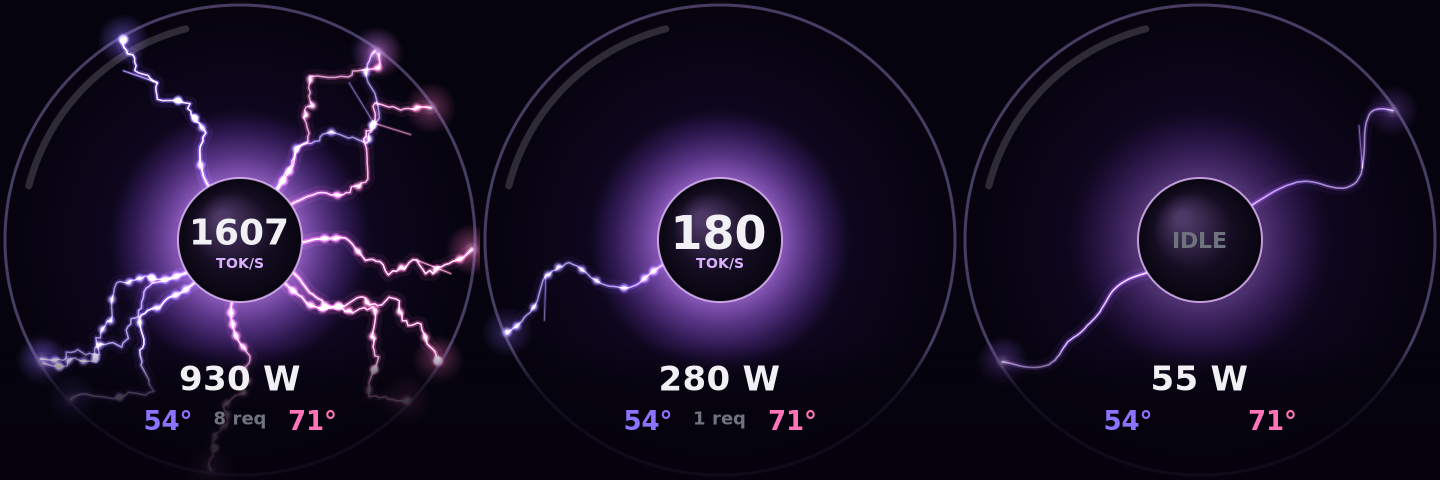
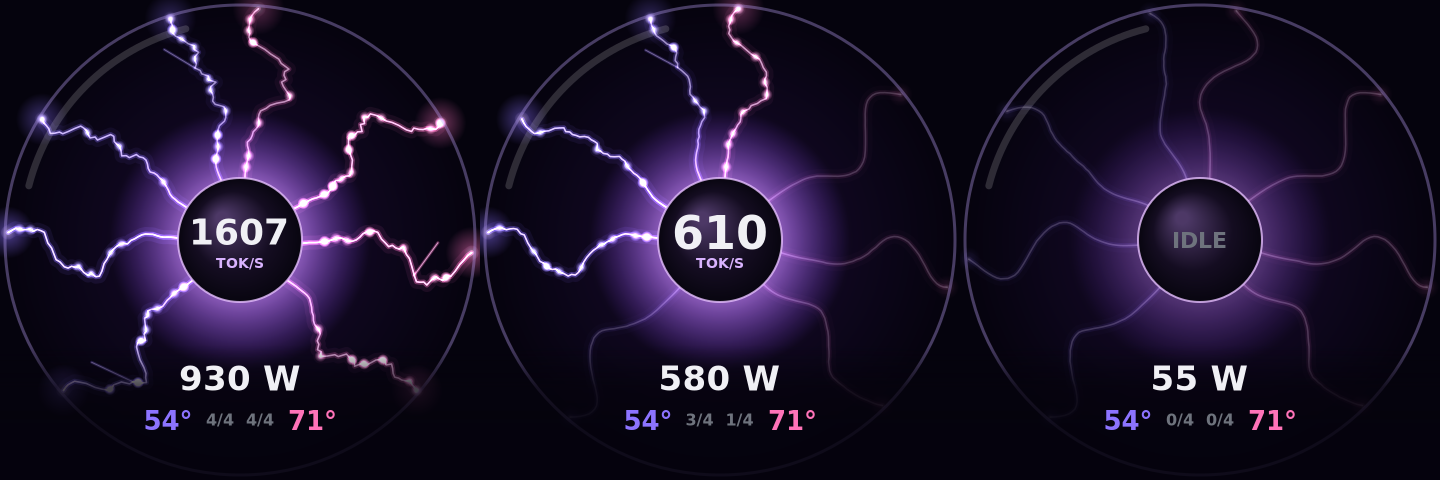
plasma: one filament per request slot on each GPU
Each server's --max-num-seqs slots get a fixed filament, fanned across
its half of the globe. Busy slots crackle brightly and carry token pulses;
free slots drift faint and dim, so the globe shows spare capacity too.
Running requests are now tracked per server, and the bottom shows
busy/total slots for each GPU.

Claude-Session: https://claude.ai/code/session_015nAWjnqqZVdKSvbNr6PTTx

diff --git a/c/plasma.c b/c/plasma.c
@@ -1,10 +1,10 @@
 /*
  * plasma: your LLM servers as a plasma globe on the iCUE LINK AIO pump LCD.
  *
- * Every running request is a crackling filament from the electrode to the glass
- * (violet for the ZOTAC's vLLM server, pink for the TUF's). Pulses race outward
- * along each server's filaments at its real token rate; the crackle gets more
- * violent with throughput. Idle, a couple of faint filaments drift.
+ * One filament per request slot (vLLM --max-num-seqs) on each server: violet on the
+ * left for the ZOTAC's, pink on the right for the TUF's. Busy slots crackle brightly
+ * and carry token pulses at the server's real rate; free slots drift faint and dim,
+ * so the globe shows both what's running and the spare capacity.
  * Run with --demo to simulate data, --bench to write preview PNGs.
  */
 #define _GNU_SOURCE
@@ -57,6 +57,7 @@ typedef struct {
     double tok_s;               /* all servers */
     double tok_port[2];         /* per server: [0] ZOTAC's vLLM, [1] TUF's vLLM */
     int    running;
+    int    running_port[2];     /* running requests per server */
 } stats;
 
 static volatile sig_atomic_t stop;
@@ -248,12 +249,14 @@ static void vllm_poll(stats *s, double t)
         double tokens, rate = 0;
         if (http_metrics(vllm_ports[i], buf, 1 << 20) <= 0) {
             have[i] = 0;
+            s->running_port[i] = 0;
             s->tok_port[i] *= 0.5;
             s->tok_s += s->tok_port[i];
             continue;
         }
         tokens   = metric_sum(buf, "vllm:generation_tokens_total");
-        running += (int)metric_sum(buf, "vllm:num_requests_running");
+        s->running_port[i] = (int)metric_sum(buf, "vllm:num_requests_running");
+        running += s->running_port[i];
         if (have[i] && tokens >= last_tokens[i] && t > last_t[i])
             rate = (tokens - last_tokens[i]) / (t - last_t[i]);
         s->tok_port[i] = 0.6 * s->tok_port[i] + 0.4 * rate;
@@ -284,24 +287,27 @@ static void demo_poll(stats *s, double t)
 
 #define ELECTRODE_R     62.0        /* center electrode radius (px) */
 #define GLASS_R         232.0       /* where filaments hit the glass */
-#define MAX_FIL         18
 #define FIL_PTS         48
 #define MAX_PULSES      400
 #define TOKENS_PER_PULSE 12.0
 
+#define SLOTS_PER_SERVER 4          /* vLLM --max-num-seqs on each server */
+#define N_SLOTS         (SLOTS_PER_SERVER * 2)
+#define FREE_GLOW       0.22        /* brightness of an idle slot */
+
 typedef struct {
-    double theta;           /* where it meets the glass */
-    double drift;           /* angular wander speed */
+    double theta, home;     /* current / resting angle where it meets the glass */
     double phase[3];        /* noise phases for its shape */
-    double life;            /* 0..1 fade in/out */
-    int    src;             /* 0 ZOTAC, 1 TUF, 2 idle */
-    int    alive, dying;
-    double px[FIL_PTS], py[FIL_PTS];   /* path this frame */
+    double life;            /* brightness, eased toward 1 when busy, FREE_GLOW when free */
+    double jit;             /* this filament's crackle, eased */
+    int    src;             /* 0 ZOTAC, 1 TUF */
+    int    busy;
+    double px[FIL_PTS], py[FIL_PTS];
 } filament;
 
 typedef struct { int fil; double u; int alive; } pulse;
 
-static filament fils[MAX_FIL];
+static filament fils[N_SLOTS];
 static pulse    pulses[MAX_PULSES];
 static double   pulse_acc[2];
 
@@ -309,72 +315,38 @@ static double frand(void) { return rand() / (double)RAND_MAX; }
 
 static rgb fil_color(int src)
 {
-    static const rgb VIOLET = { 0.55, 0.45, 1.0 };      /* ZOTAC: violet-blue */
-    static const rgb MAGENTA = { 1.0, 0.45, 0.72 };     /* TUF: pink-orange */
-    static const rgb IDLE = { 0.62, 0.40, 0.95 };
-    return src == 0 ? VIOLET : src == 1 ? MAGENTA : IDLE;
+    static const rgb VIOLET = { 0.55, 0.45, 1.0 };      /* ZOTAC */
+    static const rgb MAGENTA = { 1.0, 0.45, 0.72 };     /* TUF */
+    return src == 0 ? VIOLET : MAGENTA;
 }
 
-static int count_src(int src)
+/* Slots fan evenly across each server's half of the globe */
+static void init_slots(void)
 {
-    int n = 0;
-    for (int i = 0; i < MAX_FIL; i++)
-        n += fils[i].alive && !fils[i].dying && fils[i].src == src;
-    return n;
-}
-
-static void add_filament(int src)
-{
-    for (int i = 0; i < MAX_FIL; i++) {
+    for (int i = 0; i < N_SLOTS; i++) {
         filament *f = &fils[i];
-        if (f->alive)
-            continue;
-        /* ZOTAC's requests reach toward the left, TUF's toward the right; pick the emptiest spot */
-        double base = src == 0 ? M_PI : src == 1 ? 0 : 0;
-        double spread = src == 2 ? 2 * M_PI : 2.6;
-        double best = base, best_gap = -1;
-        for (int k = 0; k < 16; k++) {
-            double cand = base + (frand() - 0.5) * spread, gap = 10;
-            for (int j = 0; j < MAX_FIL; j++) {
-                if (!fils[j].alive || j == i)
-                    continue;
-                double d = fabs(remainder(cand - fils[j].theta, 2 * M_PI));
-                gap = fmin(gap, d);
-            }
-            if (gap > best_gap) {
-                best_gap = gap;
-                best = cand;
-            }
-        }
-        f->theta = best;
-        f->drift = (frand() - 0.5) * 0.5;
-        for (int k = 0; k < 3; k++)
-            f->phase[k] = frand() * 100;
-        f->life = 0;
+        int src = i / SLOTS_PER_SERVER, k = i % SLOTS_PER_SERVER;
+        double spread = 2.2, off = (k - (SLOTS_PER_SERVER - 1) / 2.0) * spread / (SLOTS_PER_SERVER - 1);
+        const double lift = 0.28;                           /* keep the lowest slots clear of the stats */
         f->src = src;
-        f->alive = 1;
-        f->dying = 0;
-        return;
+        f->home = f->theta = (src == 0 ? M_PI - off + lift : off - lift);   /* slot 1 at the top on both sides */
+        for (int j = 0; j < 3; j++)
+            f->phase[j] = frand() * 100;
+        f->life = FREE_GLOW;
+        f->jit = 0.2;
     }
-}
-
-static void drop_filament(int src)
-{
-    for (int i = MAX_FIL - 1; i >= 0; i--)
-        if (fils[i].alive && !fils[i].dying && fils[i].src == src) {
-            fils[i].dying = 1;
-            return;
-        }
 }
 
 static void spawn_pulse(int src)
 {
-    int cand[MAX_FIL], n = 0;
-    for (int i = 0; i < MAX_FIL; i++)
-        if (fils[i].alive && !fils[i].dying && fils[i].src == src)
+    int cand[N_SLOTS], n = 0;
+    for (int i = 0; i < N_SLOTS; i++)
+        if (fils[i].src == src && fils[i].busy)
             cand[n++] = i;
     if (!n)
-        return;
+        for (int i = 0; i < N_SLOTS; i++)
+            if (fils[i].src == src)
+                cand[n++] = i;
     for (int i = 0; i < MAX_PULSES; i++)
         if (!pulses[i].alive) {
             pulses[i] = (pulse){ cand[rand() % n], 0, 1 };
@@ -382,63 +354,35 @@ static void spawn_pulse(int src)
         }
 }
 
-/* Target filament count per server: one per running request, a few extra for heavy throughput */
-static int target_fils(double tok_port, int running_share)
-{
-    if (tok_port < 1)
-        return 0;
-    int n = running_share + (int)(tok_port / 400);
-    return n < 1 ? 1 : n > 8 ? 8 : n;
-}
-
 static void simulate(const stats *s, double dt, double t, double *jitter)
 {
-    int idle = s->tok_s < 1 && s->running == 0;
-    double share0 = s->tok_s > 0 ? s->tok_port[0] / s->tok_s : 0.5;
-    int run0 = (int)round(s->running * share0), run1 = s->running - run0;
-    int want[3] = {
-        idle ? 0 : target_fils(s->tok_port[0], run0),
-        idle ? 0 : target_fils(s->tok_port[1], run1),
-        idle ? 2 : 0,
-    };
-    for (int src = 0; src < 3; src++) {
-        int have = count_src(src);
-        if (have < want[src])
-            add_filament(src);
-        else if (have > want[src])
-            drop_filament(src);
-    }
+    /* How violently busy filaments crackle */
+    *jitter = 0.6 + fmin(s->tok_s, 2400) / 1200;
 
-    /* How violently the filaments crackle */
-    *jitter = idle ? 0.25 : 0.6 + fmin(s->tok_s, 2400) / 1200;
-
-    for (int i = 0; i < MAX_FIL; i++) {
+    for (int i = 0; i < N_SLOTS; i++) {
         filament *f = &fils[i];
-        if (!f->alive)
-            continue;
-        f->life = f->dying ? f->life - dt * 2.5 : fmin(1, f->life + dt * 3);
-        if (f->life <= 0) {
-            f->alive = 0;
-            continue;
-        }
-        f->theta += f->drift * dt * (idle ? 0.4 : 1);
-        if (frand() < dt * 0.4)
-            f->drift = (frand() - 0.5) * 0.6;
+        int k = i % SLOTS_PER_SERVER;
+        f->busy = k < s->running_port[f->src];
+        double want = f->busy ? 1 : FREE_GLOW, want_jit = f->busy ? *jitter : 0.2;
+        f->life += (want - f->life) * fmin(1, dt * 4);
+        f->jit += (want_jit - f->jit) * fmin(1, dt * 3);
 
-        /* Path: a smooth wandering curve plus fine jitter, pinned at both ends */
-        for (int k = 0; k < FIL_PTS; k++) {
-            double u = k / (double)(FIL_PTS - 1);
+        /* Wander a little around its home angle */
+        f->theta = f->home + 0.12 * sin(t * (f->busy ? 0.7 : 0.25) + f->phase[0]);
+
+        for (int j = 0; j < FIL_PTS; j++) {
+            double u = j / (double)(FIL_PTS - 1);
             double r = ELECTRODE_R + (GLASS_R - ELECTRODE_R) * u;
             double pin = sin(M_PI * u);
-            double wander = 0.26 * sin(u * 4.3 + t * 0.9 + f->phase[0]) + 0.10 * sin(u * 9.7 - t * 1.7 + f->phase[1]);
-            double crackle = (frand() - 0.5) * 0.028 * *jitter + 0.022 * *jitter * sin(u * 31 + t * 23 + f->phase[2]);
+            double speed = f->busy ? 1 : 0.35;
+            double wander = 0.24 * sin(u * 4.3 + t * 0.9 * speed + f->phase[0]) + 0.09 * sin(u * 9.7 - t * 1.7 * speed + f->phase[1]);
+            double crackle = (frand() - 0.5) * 0.028 * f->jit + 0.022 * f->jit * sin(u * 31 + t * 23 + f->phase[2]);
             double a = f->theta + (wander + crackle) * pin * (0.55 + 0.45 * u);
-            f->px[k] = SIZE / 2.0 + r * cos(a);
-            f->py[k] = SIZE / 2.0 + r * sin(a);
+            f->px[j] = SIZE / 2.0 + r * cos(a);
+            f->py[j] = SIZE / 2.0 + r * sin(a);
         }
     }
 
-    /* Token pulses racing outward along each server's filaments */
     for (int src = 0; src < 2; src++) {
         pulse_acc[src] += s->tok_port[src] / TOKENS_PER_PULSE * dt;
         while (pulse_acc[src] >= 1) {
@@ -451,7 +395,7 @@ static void simulate(const stats *s, double dt, double t, double *jitter)
         if (!p->alive)
             continue;
         p->u += dt * 1.6;
-        if (p->u >= 1 || !fils[p->fil].alive)
+        if (p->u >= 1)
             p->alive = 0;
     }
 }
@@ -503,12 +447,11 @@ static void render(cairo_t *cr, const stats *s, const shown_t *sh, double t, dou
     cairo_set_operator(cr, CAIRO_OPERATOR_ADD);
     cairo_set_line_cap(cr, CAIRO_LINE_CAP_ROUND);
     cairo_set_line_join(cr, CAIRO_LINE_JOIN_ROUND);
-    for (int i = 0; i < MAX_FIL; i++) {
+    for (int i = 0; i < N_SLOTS; i++) {
         const filament *f = &fils[i];
-        if (!f->alive)
-            continue;
         rgb col = fil_color(f->src);
-        double a = f->life * (0.8 + 0.2 * sin(t * (14 + 10 * jitter) + i * 1.7));
+        double flicker = f->busy ? 0.8 + 0.2 * sin(t * (14 + 10 * jitter) + i * 1.7) : 1;
+        double a = f->life * flicker;
 
         fil_path(cr, f, 0, FIL_PTS - 1);
         cairo_set_line_width(cr, 14);
@@ -521,8 +464,8 @@ static void render(cairo_t *cr, const stats *s, const shown_t *sh, double t, dou
         cairo_set_source_rgba(cr, 1, 0.95, 1, 0.75 * a);
         cairo_stroke(cr);
 
-        /* A short fork near the glass now and then */
-        if (((int)(t * 9) + i) % 3 == 0) {
+        /* A short fork near the glass now and then, on busy slots */
+        if (f->busy && ((int)(t * 9) + i) % 3 == 0) {
             int k0 = FIL_PTS * 2 / 3;
             double dx = f->px[FIL_PTS - 1] - f->px[k0], dy = f->py[FIL_PTS - 1] - f->py[k0];
             double sgn = (i & 1) ? 1 : -1;
@@ -539,12 +482,13 @@ static void render(cairo_t *cr, const stats *s, const shown_t *sh, double t, dou
 
         /* Hot spot where it touches the glass */
         double ex = f->px[FIL_PTS - 1], ey = f->py[FIL_PTS - 1];
-        cairo_pattern_t *g = cairo_pattern_create_radial(ex, ey, 0, ex, ey, 26);
+        double hot = f->busy ? 26 : 12;
+        cairo_pattern_t *g = cairo_pattern_create_radial(ex, ey, 0, ex, ey, hot);
         cairo_pattern_add_color_stop_rgba(g, 0, 1, 0.9, 1, 0.55 * a);
         cairo_pattern_add_color_stop_rgba(g, 0.3, col.r, col.g, col.b, 0.35 * a);
         cairo_pattern_add_color_stop_rgba(g, 1, col.r, col.g, col.b, 0);
         cairo_set_source(cr, g);
-        cairo_arc(cr, ex, ey, 26, 0, 2 * M_PI);
+        cairo_arc(cr, ex, ey, hot, 0, 2 * M_PI);
         cairo_fill(cr);
         cairo_pattern_destroy(g);
     }
@@ -559,11 +503,12 @@ static void render(cairo_t *cr, const stats *s, const shown_t *sh, double t, dou
         int k = (int)fk;
         if (k >= FIL_PTS - 1)
             continue;
+        (void)0;
         double fr = fk - k;
         double x = f->px[k] + (f->px[k + 1] - f->px[k]) * fr, y = f->py[k] + (f->py[k + 1] - f->py[k]) * fr;
         rgb col = fil_color(f->src);
         cairo_pattern_t *g = cairo_pattern_create_radial(x, y, 0, x, y, 6);
-        cairo_pattern_add_color_stop_rgba(g, 0, 1, 1, 1, 0.9 * f->life);
+        cairo_pattern_add_color_stop_rgba(g, 0, 1, 1, 1, 0.9 * fmax(f->life, 0.6));
         cairo_pattern_add_color_stop_rgba(g, 1, col.r, col.g, col.b, 0);
         cairo_set_source(cr, g);
         cairo_arc(cr, x, y, 6, 0, 2 * M_PI);
@@ -637,10 +582,8 @@ static void render(cairo_t *cr, const stats *s, const shown_t *sh, double t, dou
     text_center(cr, c - 72, c + 180, 26, 1, fil_color(0), txt);
     snprintf(txt, sizeof(txt), "%d\xC2\xB0", s->temp[1]);
     text_center(cr, c + 72, c + 180, 26, 1, fil_color(1), txt);
-    if (s->running) {
-        snprintf(txt, sizeof(txt), "%d req", s->running);
-        text_center(cr, c, c + 180, 18, 1, DIM, txt);
-    }
+    snprintf(txt, sizeof(txt), "%d/%d  %d/%d", s->running_port[0], SLOTS_PER_SERVER, s->running_port[1], SLOTS_PER_SERVER);
+    text_center(cr, c, c + 180, 16, 1, DIM, txt);
 }
 
 /* ---------------------------------------------------------------- main */
@@ -668,6 +611,7 @@ int main(int argc, char **argv)
     signal(SIGPIPE, SIG_IGN);
     srand((unsigned)time(NULL));
 
+    init_slots();
     surf = cairo_image_surface_create(CAIRO_FORMAT_RGB24, SIZE, SIZE);
     cr = cairo_create(surf);
     tj = tj3Init(TJINIT_COMPRESS);
@@ -675,16 +619,16 @@ int main(int argc, char **argv)
     tj3Set(tj, TJPARAM_SUBSAMP, TJSAMP_420);
 
     if (bench) {
-        struct { double tok0, tok1; int run; double w0, w1; const char *png; } scenes[] = {
-            { 723, 884, 8, 470, 460, "plasma_preview.png" },
-            { 180, 0, 1, 250, 30, "plasma_one.png" },
-            { 0, 0, 0, 25, 30, "plasma_idle.png" },
+        struct { double tok0, tok1; int run0, run1; double w0, w1; const char *png; } scenes[] = {
+            { 723, 884, 4, 4, 470, 460, "plasma_preview.png" },
+            { 420, 190, 3, 1, 330, 250, "plasma_one.png" },
+            { 0, 0, 0, 0, 25, 30, "plasma_idle.png" },
         };
         for (int k = 0; k < 3; k++) {
-            memset(fils, 0, sizeof(fils));
             memset(pulses, 0, sizeof(pulses));
             s.tok_port[0] = scenes[k].tok0; s.tok_port[1] = scenes[k].tok1;
-            s.tok_s = s.tok_port[0] + s.tok_port[1]; s.running = scenes[k].run;
+            s.running_port[0] = scenes[k].run0; s.running_port[1] = scenes[k].run1;
+            s.tok_s = s.tok_port[0] + s.tok_port[1]; s.running = scenes[k].run0 + scenes[k].run1;
             s.power[0] = scenes[k].w0; s.power[1] = scenes[k].w1; s.temp[0] = 54; s.temp[1] = 71;
             sh.tok = s.tok_s;
             double b0 = now_s();
@@ -697,8 +641,7 @@ int main(int argc, char **argv)
                 tj3Compress8(tj, cairo_image_surface_get_data(surf), SIZE, cairo_image_surface_get_stride(surf),
                              SIZE, TJPF_BGRX, &jpeg, &len);
             }
-            printf("%s: %.2f ms/frame, jpeg %zu bytes, %d filaments\n", scenes[k].png,
-                   (now_s() - b0) * 1000 / n, len, count_src(0) + count_src(1) + count_src(2));
+            printf("%s: %.2f ms/frame, jpeg %zu bytes\n", scenes[k].png, (now_s() - b0) * 1000 / n, len);
             cairo_surface_write_to_png(surf, scenes[k].png);
         }
         return 0;
@@ -725,8 +668,10 @@ int main(int argc, char **argv)
                 demo_poll(&s, t - t0);
                 s.tok_port[0] *= 6; s.tok_port[1] *= 6;
                 s.tok_s = s.tok_port[0] + s.tok_port[1];
-                s.running = s.tok_s < 60 ? 0 : 1 + (int)(s.tok_s / 250);
                 if (s.tok_s < 60) s.tok_s = s.tok_port[0] = s.tok_port[1] = 0;
+                for (int j = 0; j < 2; j++)
+                    s.running_port[j] = s.tok_port[j] < 30 ? 0 : 1 + (int)fmin(SLOTS_PER_SERVER - 1, s.tok_port[j] / 220);
+                s.running = s.running_port[0] + s.running_port[1];
             } else {
                 gpus_poll(&s);
                 vllm_poll(&s, t);

diff --git a/README.md b/README.md
@@ -32,7 +32,7 @@ Every display shows generation tokens/sec summed across all requests on all vLLM
 - `reactor`: outer ring is GPU load, core segments spin faster with load, glow shifts cyan to amber to red with power
 - `singularity`: one particle per token, streams per server form spiral arms, trails, photon ring
 - `synapse`: fixed three layer network, one signal per two tokens, neurons flash as signals pass, core flashes on arrival
-- `plasma`: a plasma globe; every running request is a crackling filament to the glass, token pulses race along each server's filaments, the crackle gets more violent with throughput
+- `plasma`: a plasma globe with one filament per request slot (`--max-num-seqs`) on each server. Busy slots crackle and carry token pulses at the real rate, free slots drift faint and dim, and the counter shows busy/total slots per GPU. Set `SLOTS_PER_SERVER` to match your servers
 - `horizon`: passively captures streamed text from the vLLM servers on loopback (libpcap) and drops a legible subset in as words; the rest of the token flow becomes accretion dust. Lensed starfield, spaghettification, gravitational redshift. Nothing is stored or sent anywhere. Needs root or CAP_NET_RAW.
 
 Built for a dual RTX 5090 box running two vLLM servers, but the GPU bus IDs and vLLM ports are constants at the top of each source file.
